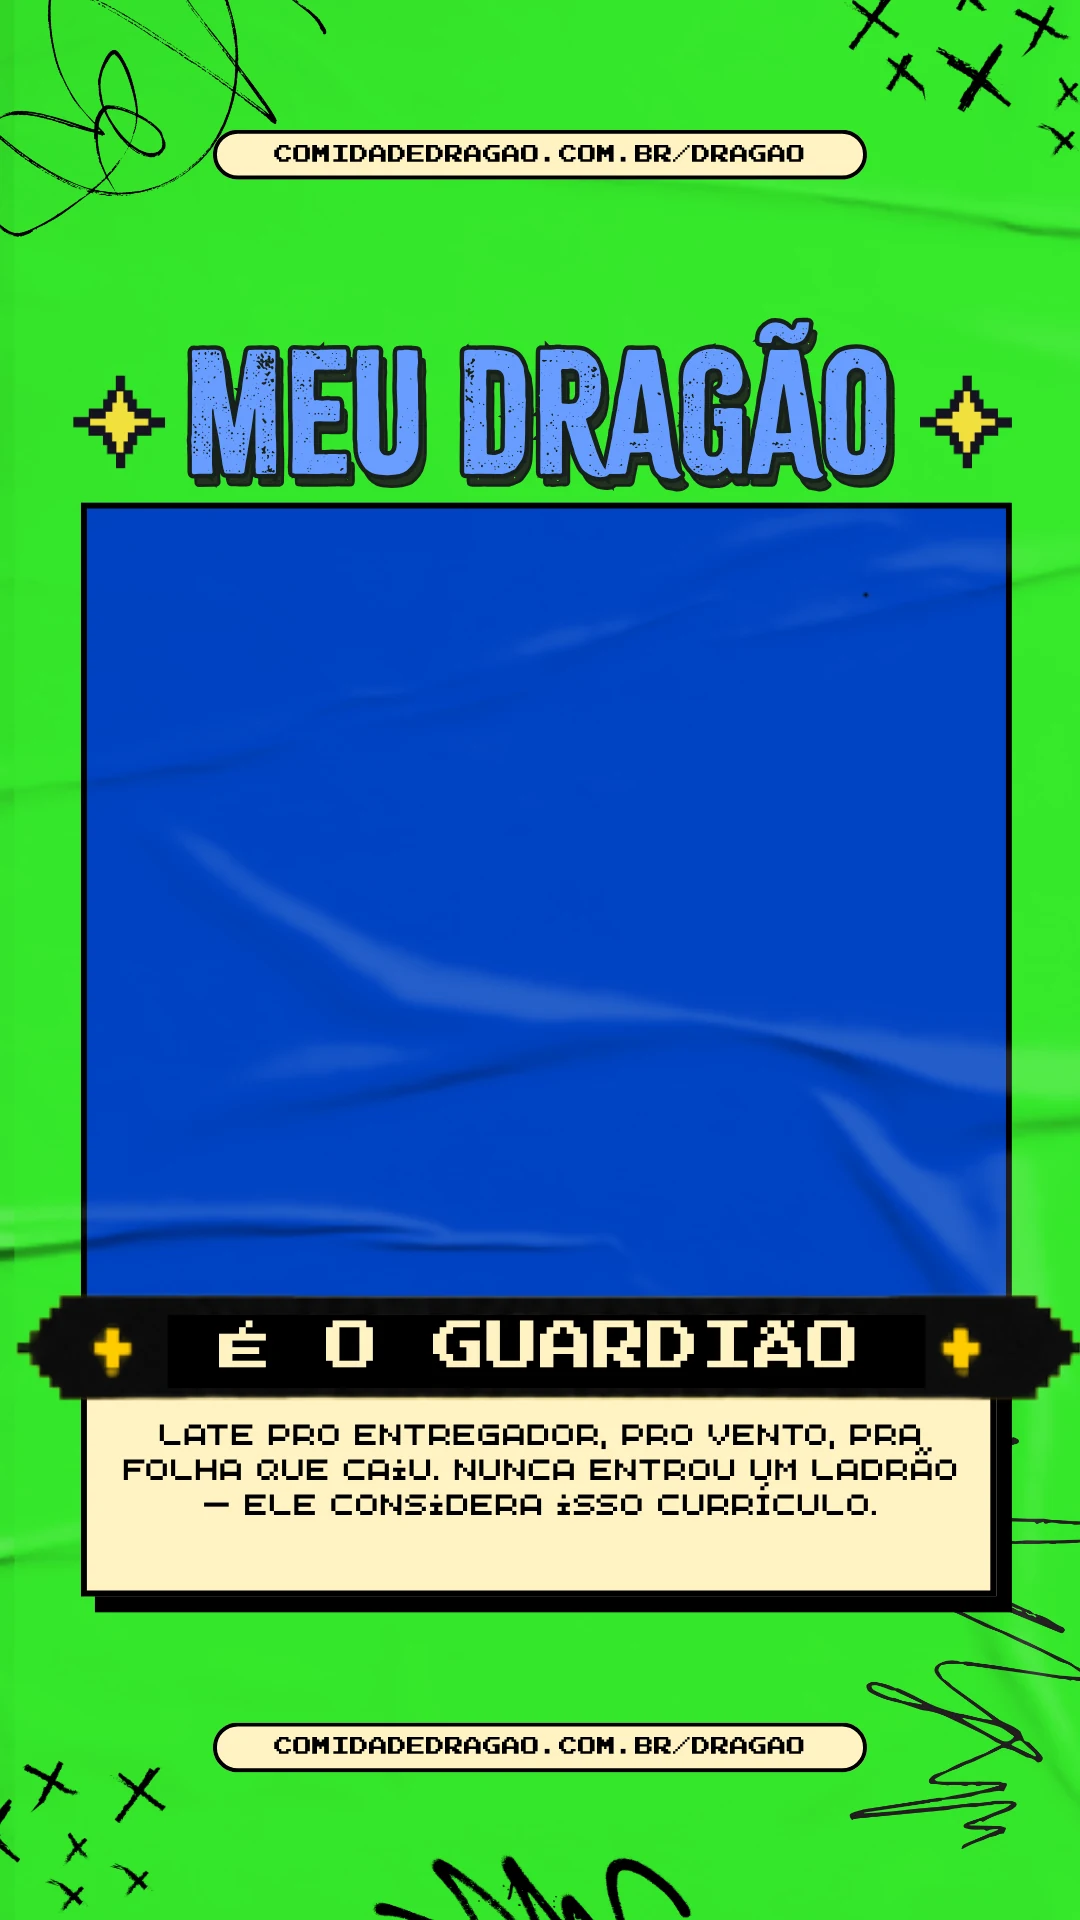
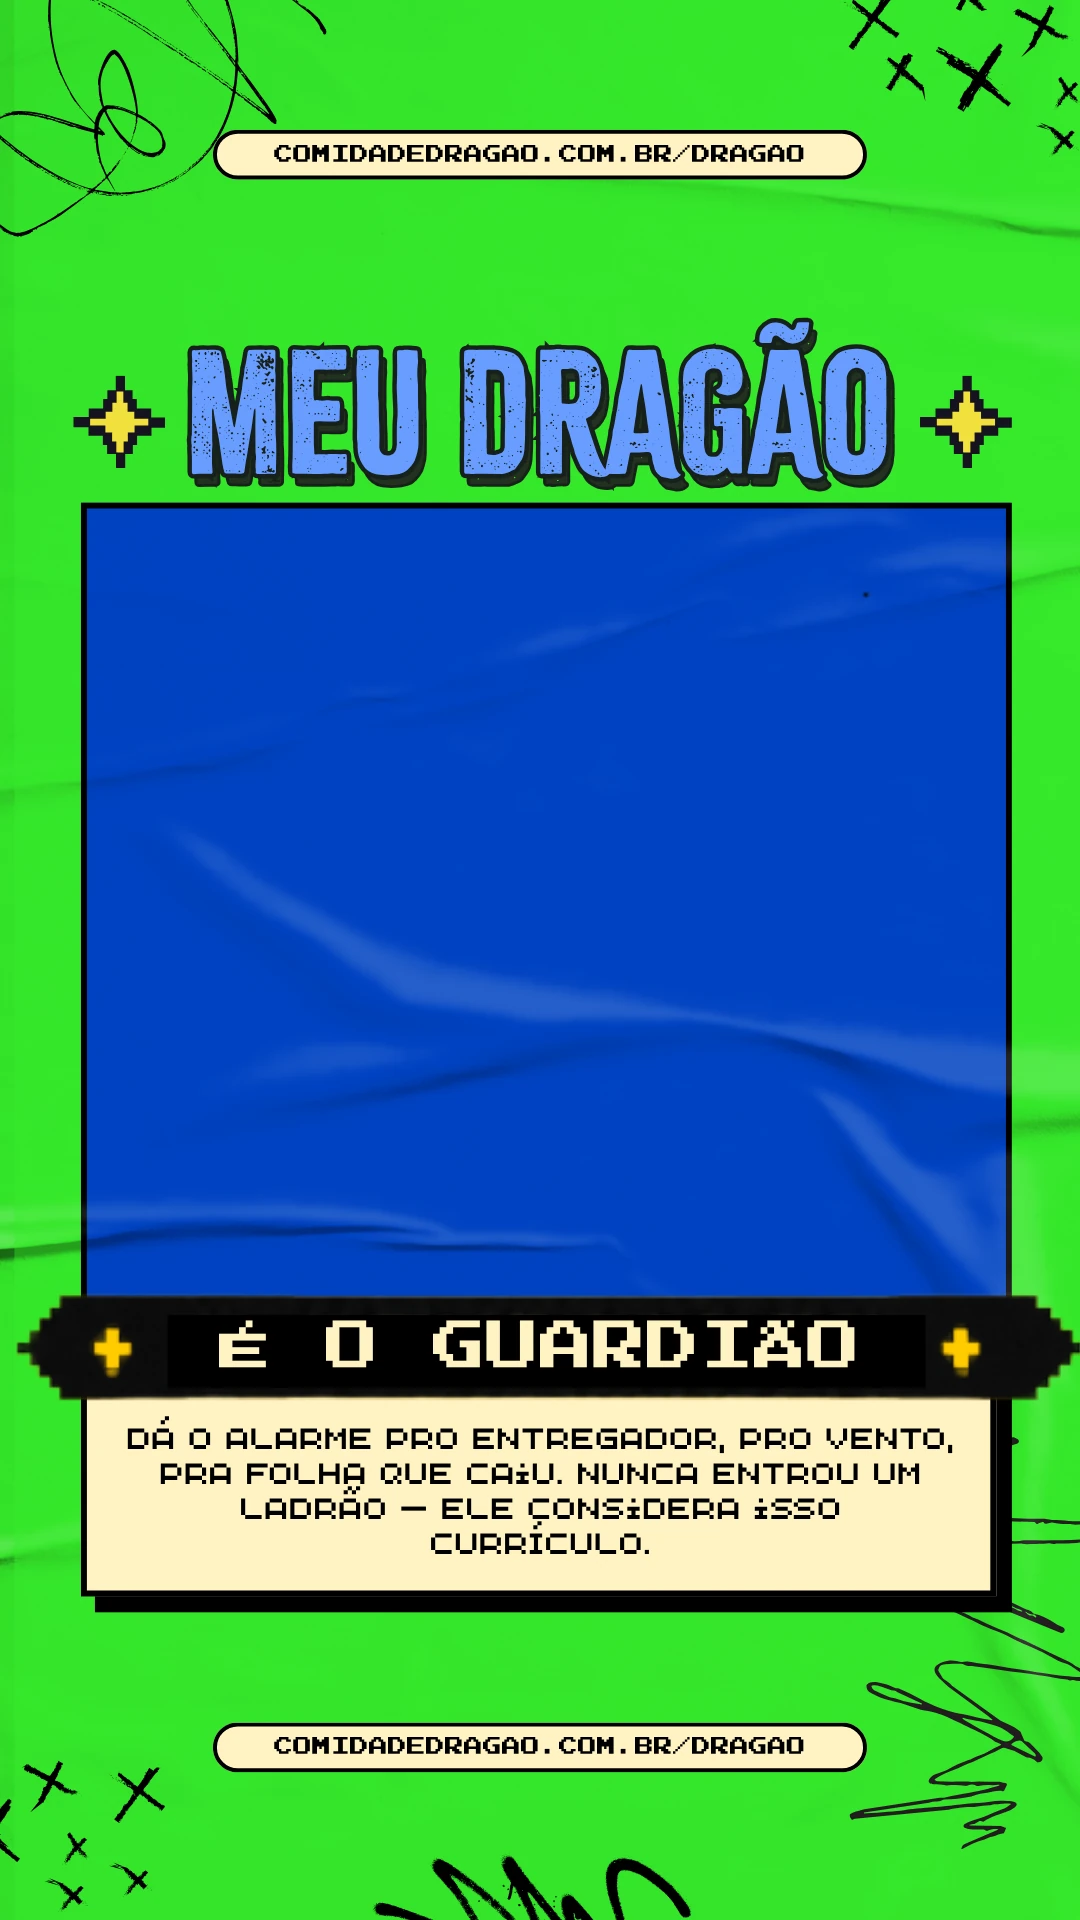
Quiz /qual-dragao: card do Guardiao sem 'late' (Da o alarme pro entregador...), arte nova do Canva

Changed region(s): [[0.1222, 0.7188, 0.8861, 0.8125], [0.8861, 0.0312, 0.9167, 0.0625]]

diff --git a/src/data/dragoes.ts b/src/data/dragoes.ts
@@ -128,9 +128,9 @@ export const DRAGOES: Dragao[] = [
     nomePix: "O GUARDIAO",
     epiteto: "Cem por cento de eficácia contra o que não existe",
     completa:
-      "Late pro entregador, pro vento e pra folha que caiu lá fora. Nunca entrou um ladrão nesta casa — ele considera isso currículo. Quem pediu desculpa pro entregador três vezes esta semana foi você.",
+      "Dá o alarme pro entregador, pro vento e pra folha que caiu lá fora. Nunca entrou um ladrão nesta casa — ele considera isso currículo. Quem pediu desculpa pro entregador três vezes esta semana foi você.",
     curta:
-      "Late pro entregador, pro vento, pra folha que caiu. Nunca entrou um ladrão — ele considera isso currículo.",
+      "Dá o alarme pro entregador, pro vento, pra folha que caiu. Nunca entrou um ladrão — ele considera isso currículo.",
     confissao: "JÁ PEDI DESCULPA PRO ENTREGADOR TRÊS VEZES ESTA SEMANA",
     marca: "Marca quem pede desculpa pro entregador.",
     conector: "\"nunca entrou um ladrão\" (coincidência → currículo)",
